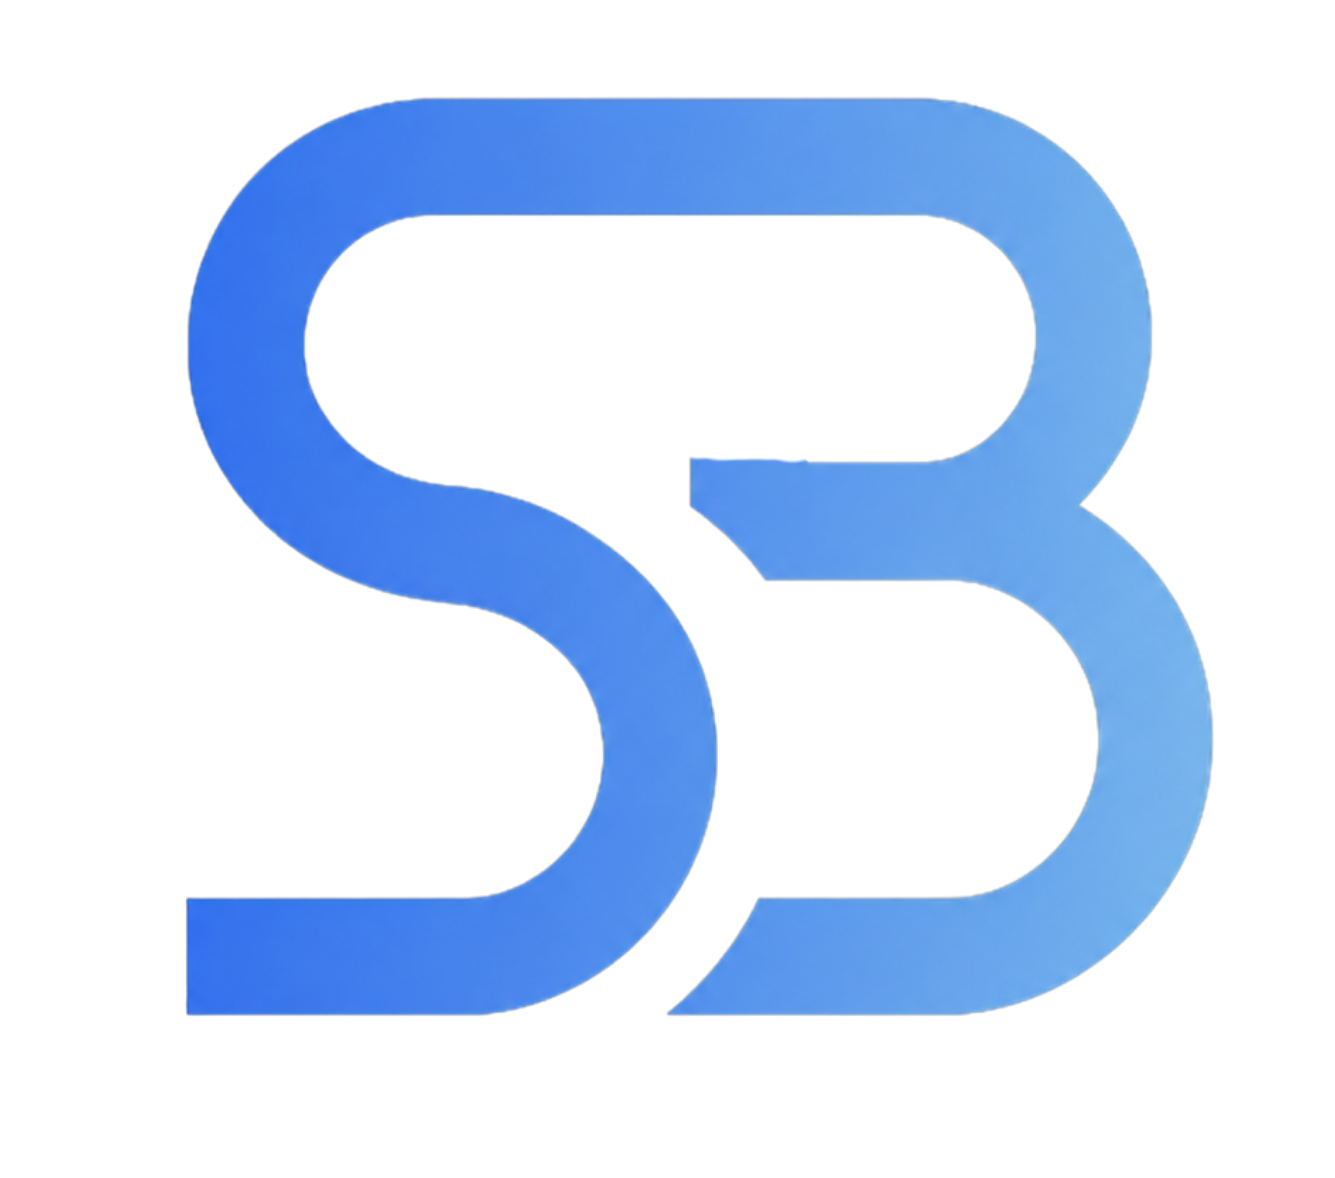
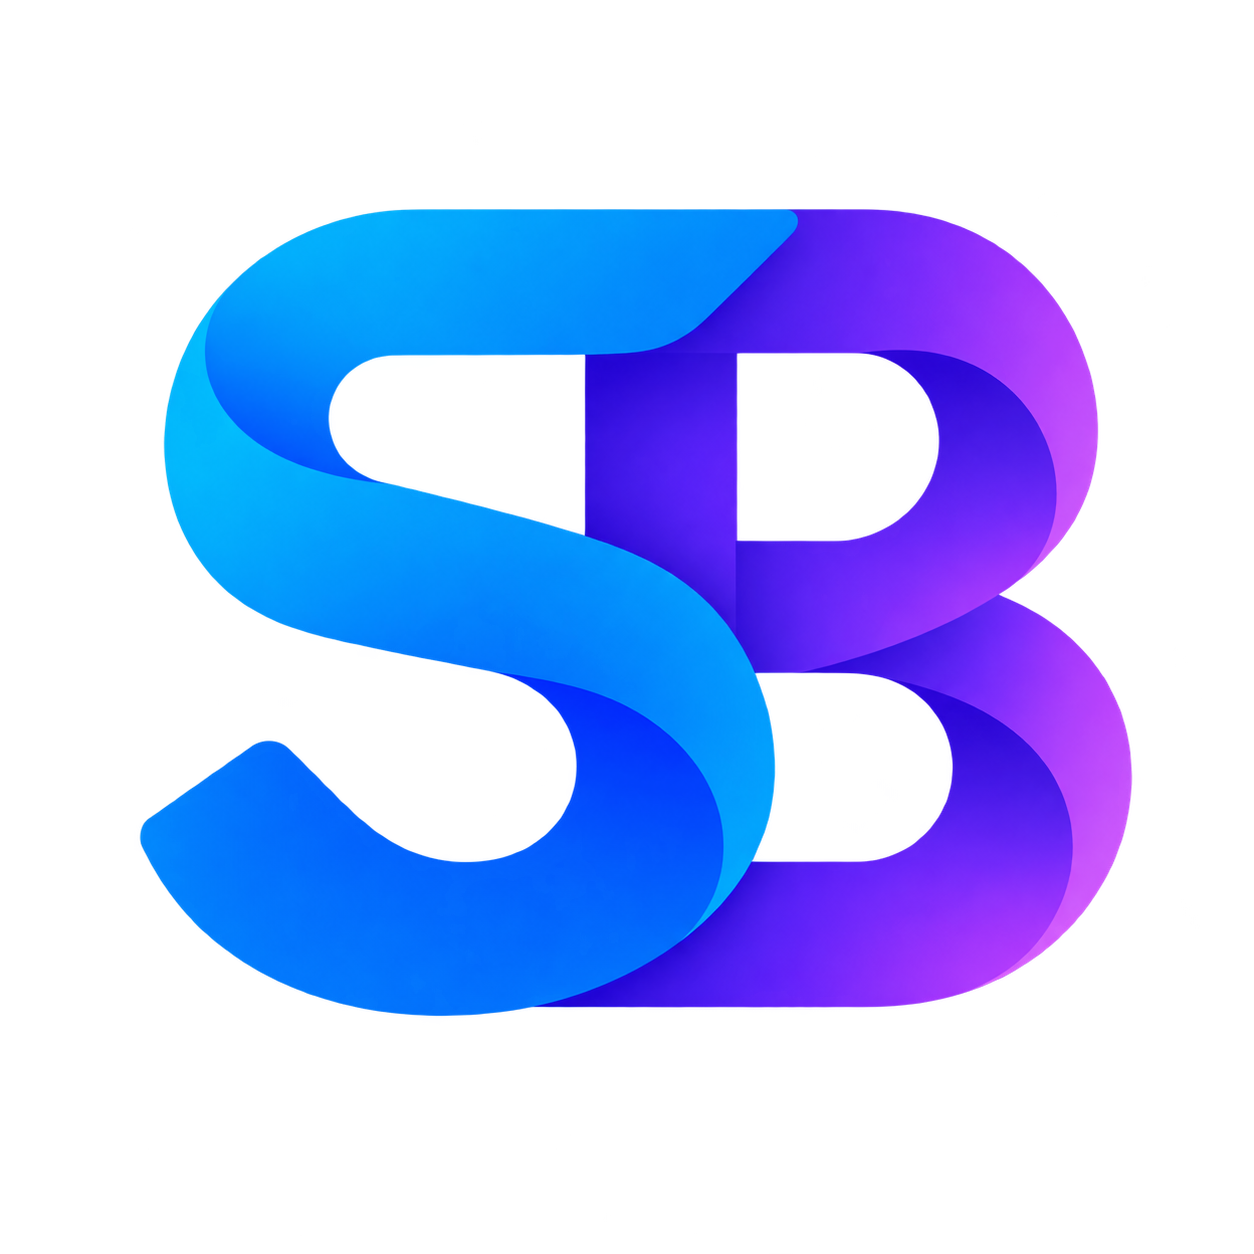
Update Softbade branding

diff --git a/app/categories/finance-tools/page.tsx b/app/categories/finance-tools/page.tsx
@@ -16,8 +16,6 @@ const financeToolGroups = {
     { name: "Melio", slug: "melio", desc: "Manage vendor payments, invoices, approvals, and cash flow timing for small businesses." },
   ],
   "Payments & Transfers": [
-    { name: "Payoneer", slug: "payoneer", desc: "Receive global payments and manage cross-border business payouts for freelancers." },
-    { name: "Wise", slug: "wise", desc: "Send international transfers and manage multi-currency accounts for businesses." },
     { name: "Stripe", slug: "stripe", desc: "Accept online payments, manage subscriptions, billing, checkout, and payouts." },
     { name: "Paddle", slug: "paddle", desc: "Manage SaaS payments, subscriptions, checkout, tax, billing, and merchant-of-record workflows." },
     { name: "Deel", slug: "deel", desc: "Hire, pay, and manage global teams with payroll and contractor payment workflows." },

diff --git a/components/home/footer.tsx b/components/home/footer.tsx
@@ -143,8 +143,8 @@ export default function Footer() {
               ))}
             </ul>
             <p style={{ margin: "16px 0 0", color: "#94a3b8", fontSize: "13px", lineHeight: 1.6 }}>
-              <a href="mailto:contact@softbade.com" style={{ ...linkStyle, color: "#94a3b8", fontSize: "13px" }}>
-                contact@softbade.com
+              <a href="mailto:hello@softbade.com" style={{ ...linkStyle, color: "#94a3b8", fontSize: "13px" }}>
+                hello@softbade.com
               </a>
             </p>
           </div>

diff --git a/app/globals.css b/app/globals.css
@@ -65,7 +65,7 @@ body {
 .nav-logo-icon {
   display: block;
   width: auto;
-  height: 1.3em;
+  height: 1.69em;
   object-fit: contain;
 }
 
